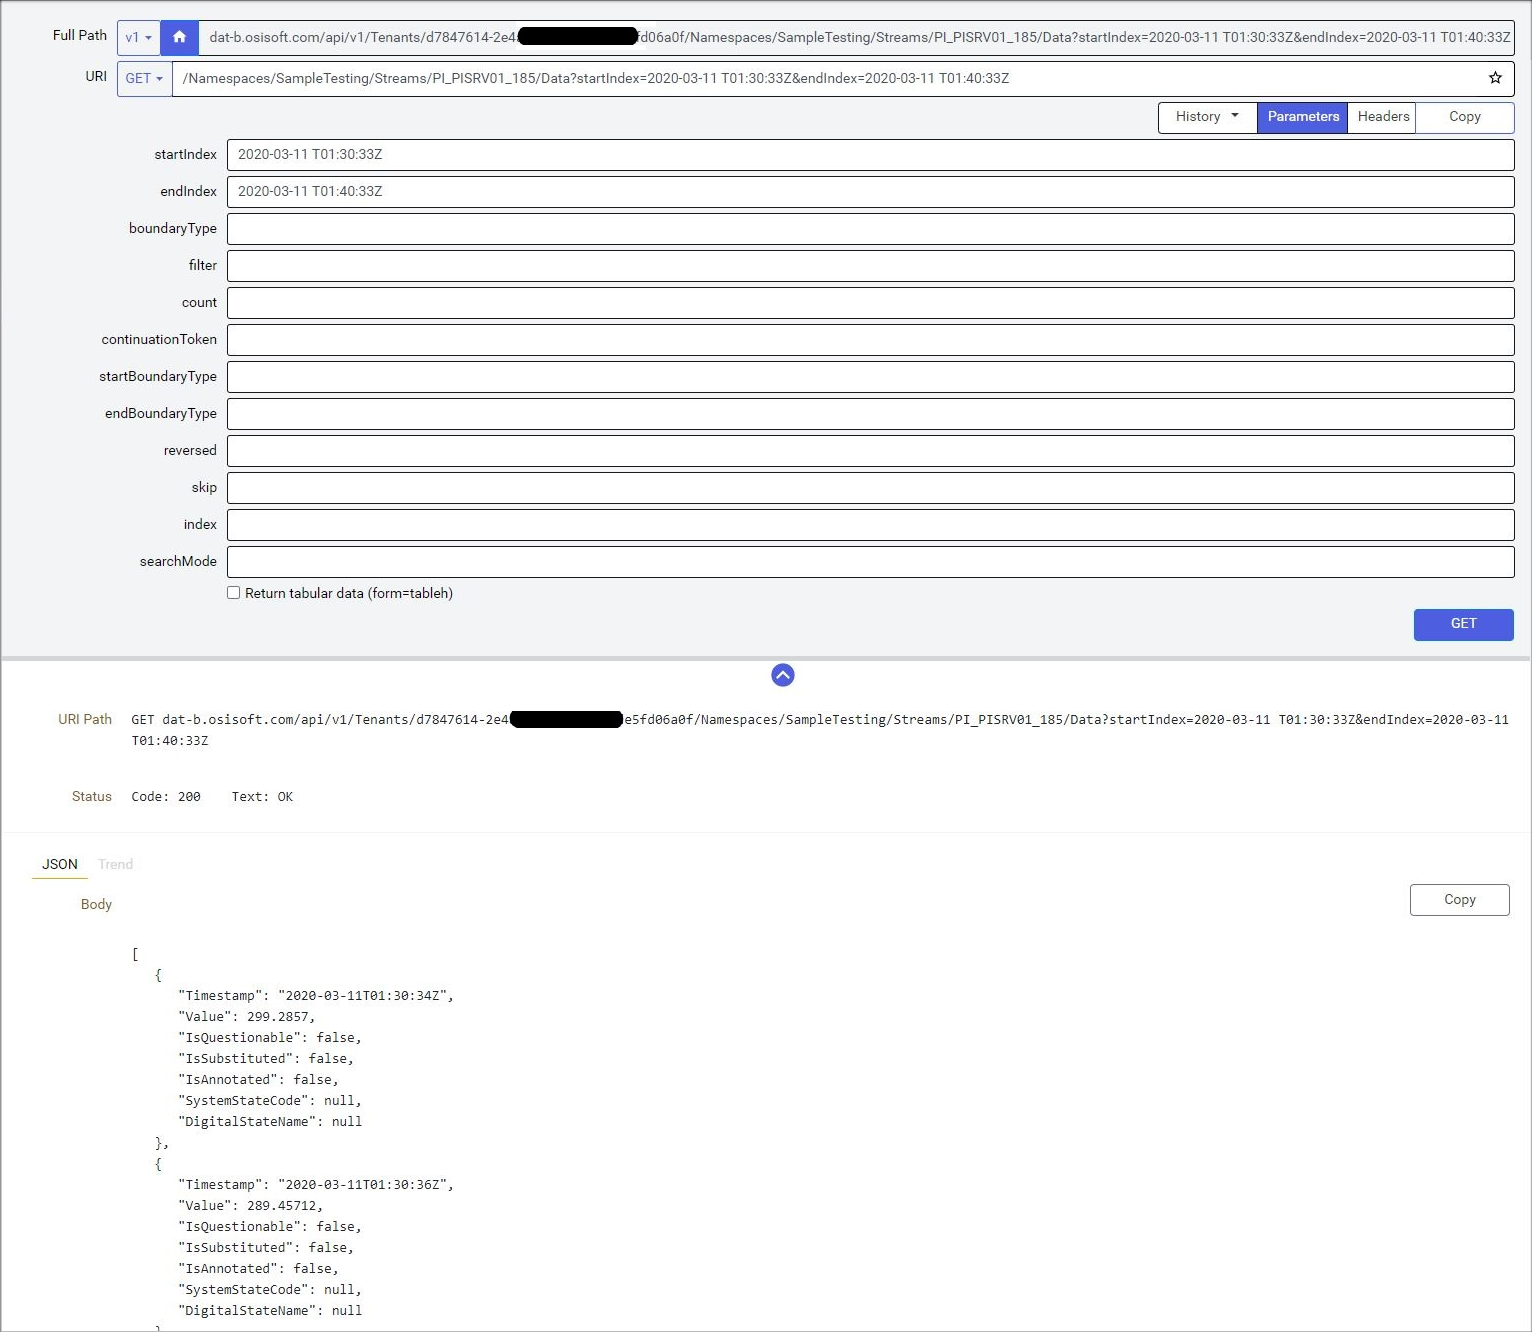
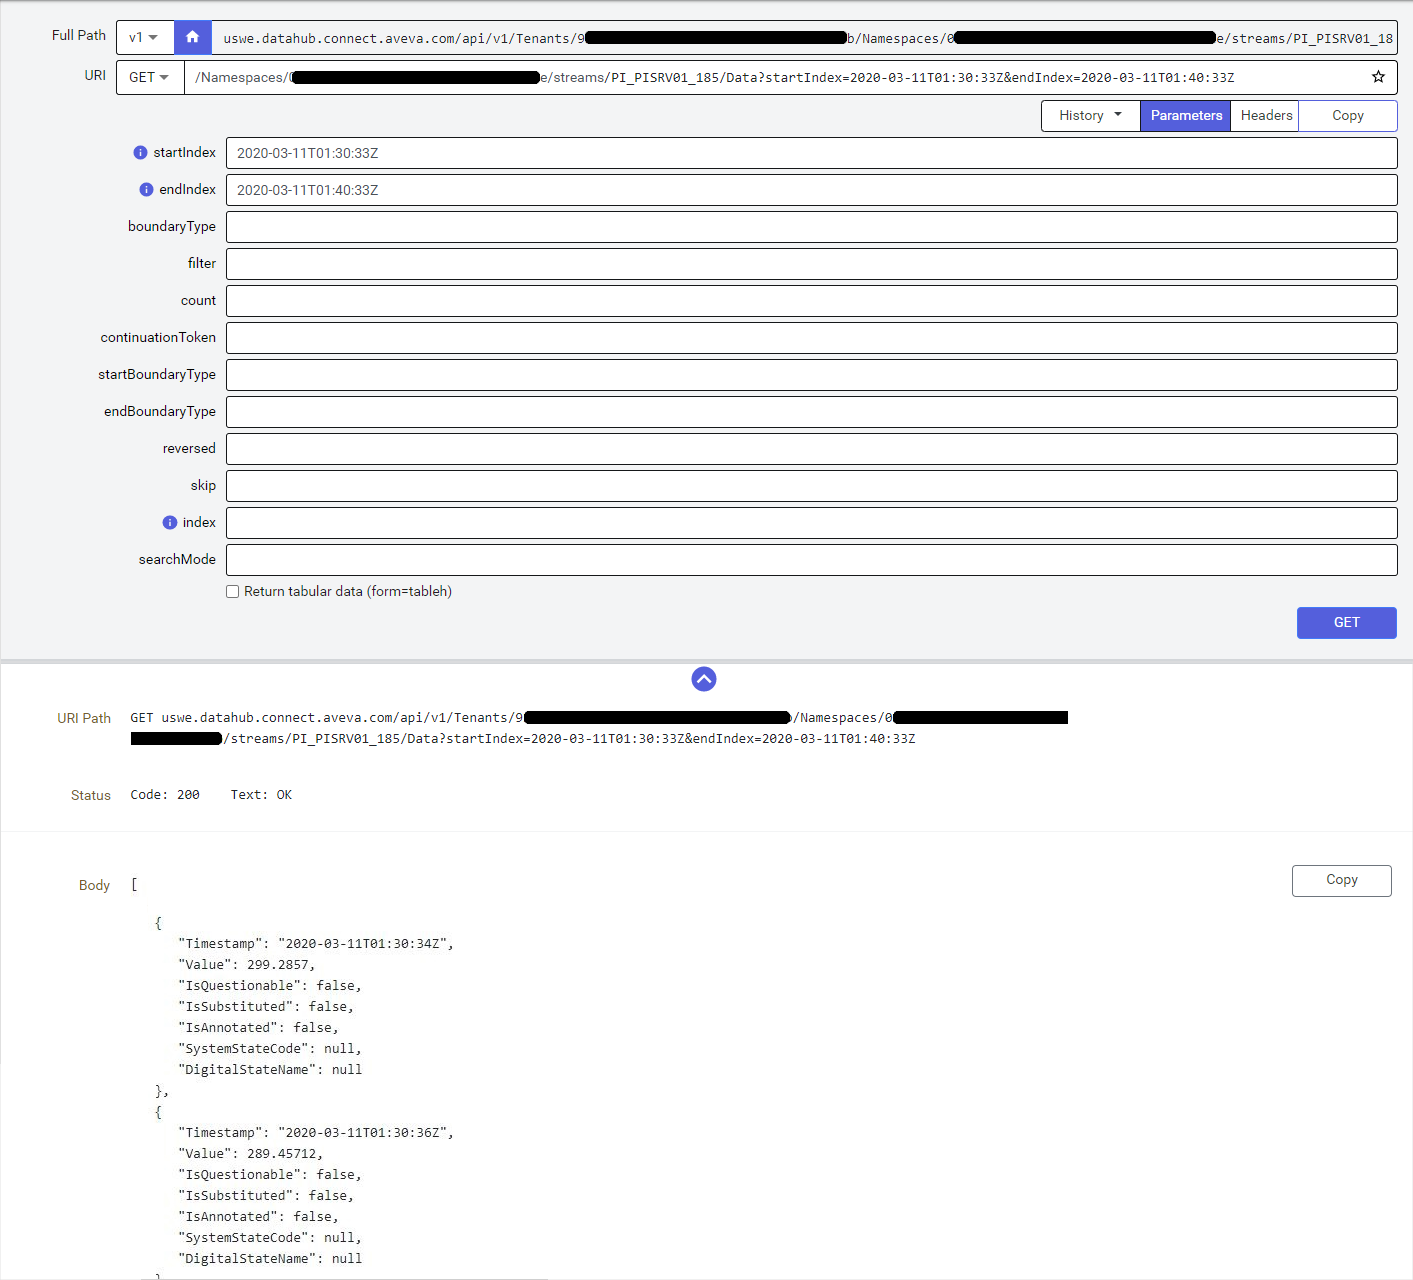
token change

diff --git a/content/developer-guide/excel-dev/use-excel.md b/content/developer-guide/excel-dev/use-excel.md
@@ -53,7 +53,7 @@ $body = @{
     client_secret=$clientSecret
     }
 $contentType = 'application/x-www-form-urlencoded'
-$token = (Invoke-WebRequest -UseBasicParsing –Uri "https://dat-b.osisoft.com/identity/connect/token" -Method post -body $body -ContentType $contentType).content|Convertfrom-Json|select access_token
+$token = (Invoke-WebRequest -UseBasicParsing –Uri "https://uswe.datahub.connect.aveva.com/identity/connect/token" -Method post -body $body -ContentType $contentType).content|Convertfrom-Json|select access_token
 write-host $token
 ```
 
